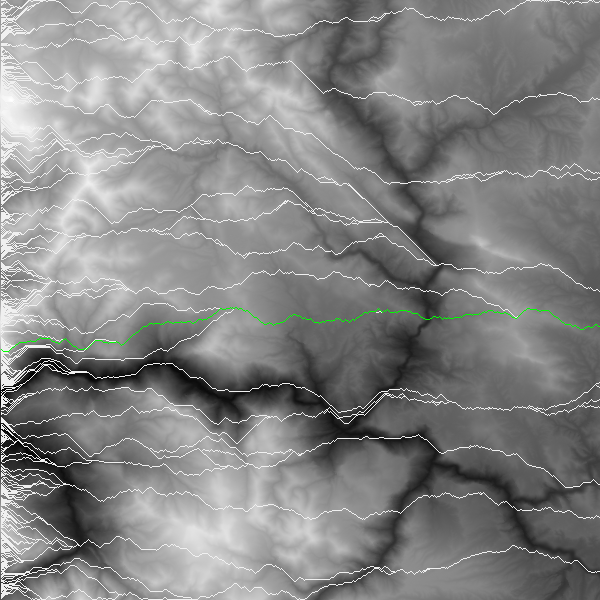
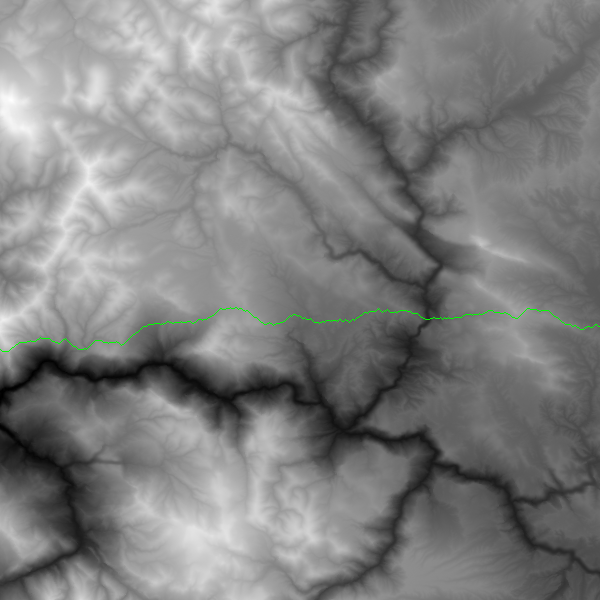
Commented all classes and methods

diff --git a/pathfinder.py b/pathfinder.py
@@ -1,8 +1,14 @@
 from PIL import Image
 from random import choice
+import argparse
 
 
 class ElevationMap:
+    """
+    An elevation map takes a text file with each line having numerical values representing elevations separated
+    by spaces.  It strips that data into lists and dictionaries and stores important values about the map.
+    Has useful methods for getting elevation data for each coordinate.
+    """
 
 
     def __init__(self, file):
@@ -21,64 +27,109 @@ class ElevationMap:
                 self.coords_dict[(x, y)] = self.elevation_graph[y][x]
 
     def get_elevation(self, x, y):
+        """Returns the elevation at a given x, y coordinate."""
         return self.elevation_graph[y][x]
 
     def get_elevation_intensity(self, x, y, scale):
+        """Given an x, y coordinate, represent the elevation as a ratio of the range of given elevations,
+        and then scale it to the given scale. ie: range of elevations = 200-300, scale = 1000, elevation
+        at the given point is 233, return 330."""
         return int(((self.get_elevation(x, y) - self.min_elevation) / self.elevation_range) * scale)
 
-    def get_elevation_difference(self, x, y, a, b):
+    def get_diff(self, x, y, a, b):
+        """Given two coordinate, return the difference in elevations at each coordinate."""
         return abs(self.get_elevation(x, y)-self.get_elevation(a, b))
-
-    def draw_elevation_map(self):
-        my_mountain = Image.new('RGB', (len(self.elevation_graph), len(self.elevation_graph[0])), (255,255,255))
-        for y in range(len(self.elevation_graph)):
-            for x in range(len(self.elevation_graph[0])):
-                rgb_value = self.get_elevation_intensity(x, y, 255)
-                my_mountain.putpixel((x, y), (rgb_value, rgb_value, rgb_value))
-        return my_mountain
-
-    def find_best_way_forward(self, x, y):
-        if y == 0:
-            options = {(x+1, y):self.get_elevation_difference(x,y,x+1,y),(x+1, y+1):self.get_elevation_difference(x,y,x+1,y+1)}
-        elif y == self.height - 1:
-            options = {(x+1, y-1):self.get_elevation_difference(x,y,x+1,y-1),(x+1, y):self.get_elevation_difference(x,y,x+1,y)}
-        else:
-            options = {(x+1, y-1):self.get_elevation_difference(x,y,x+1,y-1),(x+1, y):self.get_elevation_difference(x,y,x+1,y),(x+1, y+1):self.get_elevation_difference(x,y,x+1,y+1)}
-        best_option = (x+1, y)
-        best_option = min(options, key = options.__getitem__)
-        if (len(options) == 3) and (not best_option == (x+1, y)) and (options[(x+1,y-1)] == options[(x+1,y+1)]):
-            best_option = choice([(x+1, y-1), (x+1, y+1)])
-        return best_option, self.get_elevation_difference(x,y,best_option[0],best_option[1])
-
-    def draw_greedy_path(self, y_value):
-        my_mountain_image = self.draw_elevation_map()
-        total_elevation_changes = {}
-        for start_y in y_value:
-            y = start_y
-            total_elevation_change = 0
-            for x in range(len(self.elevation_graph[0])-1):
-                best_way_forward, elevation_change = self.find_best_way_forward(x,y)
-                my_mountain_image.putpixel(best_way_forward, (240,240,240))
-                y = best_way_forward[1]
-                total_elevation_change += elevation_change
-            total_elevation_changes[start_y] = total_elevation_change
-        min_elevation_change_y = sorted(total_elevation_changes, key = total_elevation_changes.__getitem__)[0]
-        for x in range(len(self.elevation_graph[0])-1):
-            best_way_forward = self.find_best_way_forward(x,min_elevation_change_y)[0]
-            my_mountain_image.putpixel(best_way_forward, (0,255,0))
-            min_elevation_change_y = best_way_forward[1]
-        return my_mountain_image
 
 
 class PointDrawer:
+    """
+    A PointDrawer has methods to represent elevation maps as images and 
+    draw paths of coordinates on images.
+    """
 
 
-    def __init__(self, elevation_map):
-        self.elevation_map = elevation_map
+    def __init__(self):
+        pass
+
+    def draw_emap(self, emap):
+        """Given an ElevationMap, draw each point in gray scale with an intensity that matches its
+        percentage of the total range of elevation.  Higher points == lighter, lower points == darker."""
+        my_mountain = Image.new('RGB', (emap.width, emap.height), (255,255,255))
+        for y in range(emap.height):
+            for x in range(emap.width):
+                rgb_value = emap.get_elevation_intensity(x, y, 255)
+                my_mountain.putpixel((x, y), (rgb_value, rgb_value, rgb_value))
+        return my_mountain
+
+    def draw_path(self, path, image, rgb):
+        """Given a list of coordinates (path), draw a pixel on an image with the rgb value given."""
+        for coord in path:
+            image.putpixel(coord, rgb)
 
 
-my_mountain = ElevationMap("elevation_small.txt")
-my_image = my_mountain.draw_greedy_path(range(600))
-my_image.save("my_pretty_mountain.png")
+class PathFinder:
+    """
+    A PathFinder takes an ElevationMap as its main argument.  It has methods to find 'paths of least resistance'
+    from different points on the map.
+    """
 
 
+    def __init__(self, emap):
+        self.emap=emap
+
+    def find_greedy_step(self, x, y):
+        """Given a coordinate, return a coordinate to the right and either up, straight, or down
+        one from the starting coordinate that causes the least change in elevation."""
+        if y == 0:
+            options = [y,y+1]
+            diffs = [self.emap.get_diff(x,y,x+1,y),self.emap.get_diff(x,y,x+1,y+1)]
+        elif y == self.emap.height - 1:
+            options = [y,y-1]
+            diffs = [self.emap.get_diff(x,y,x+1,y),self.emap.get_diff(x,y,x+1,y-1)]
+        else:
+            options = [y,y-1,y+1]
+            diffs = [self.emap.get_diff(x,y,x+1,y),self.emap.get_diff(x,y,x+1,y-1),self.emap.get_diff(x,y,x+1,y+1)]
+        best_option_index = diffs.index(min(diffs))
+        best_option = options[best_option_index]
+        if best_option_index>0 and len(options)==3 and diffs[1]==diffs[2]:
+            best_option = choice([y+1, y-1])
+        return (x+1, best_option)
+
+    def find_greedy_path(self, y):
+        """Given a starting y value, return a list of coordinates that represents the path where each step
+        is the step that causes the least change in elevation."""
+        greedy_path = [(0, y)]
+        for x in range(self.emap.width-1):
+            best_way_forward = self.find_greedy_step(x,y)
+            greedy_path.append(best_way_forward)
+            y = best_way_forward[1]
+        return greedy_path
+
+    def find_greediest_path(self, y_range):
+        """Given a range of y values, generates a list of greedy paths using each y value as a starting point,
+        and then returns the path with the least total change in elevation."""
+        paths = [self.find_greedy_path(y) for y in y_range]
+        min_path = min(paths, key=lambda k: self.get_path_ediff(k))
+        return min_path
+        
+    def get_path_ediff(self, path):
+        """Given a path (ordered list of coordinates), return the sum of the difference
+        in elevation between each step of the path."""
+        total_ediff = 0
+        for i in range(len(path)-1):
+            total_ediff += self.emap.get_diff(path[i][0], path[i][1], path[i+1][0], path[i+1][1])
+        return total_ediff
+
+
+if __name__ == "__main__":
+    parser = argparse.ArgumentParser()
+    parser.add_argument("file", help = "The file path for the elevation map data")
+    args = parser.parse_args()
+
+    emap = ElevationMap(args.file)
+    point_drawer = PointDrawer()
+    my_image = point_drawer.draw_emap(emap)
+    pathfinder = PathFinder(emap)
+    greedy_path = pathfinder.find_greediest_path(range(emap.height))
+    point_drawer.draw_path(greedy_path, my_image, (0,255,0))
+    my_image.save("my_pretty_mountain.png")
